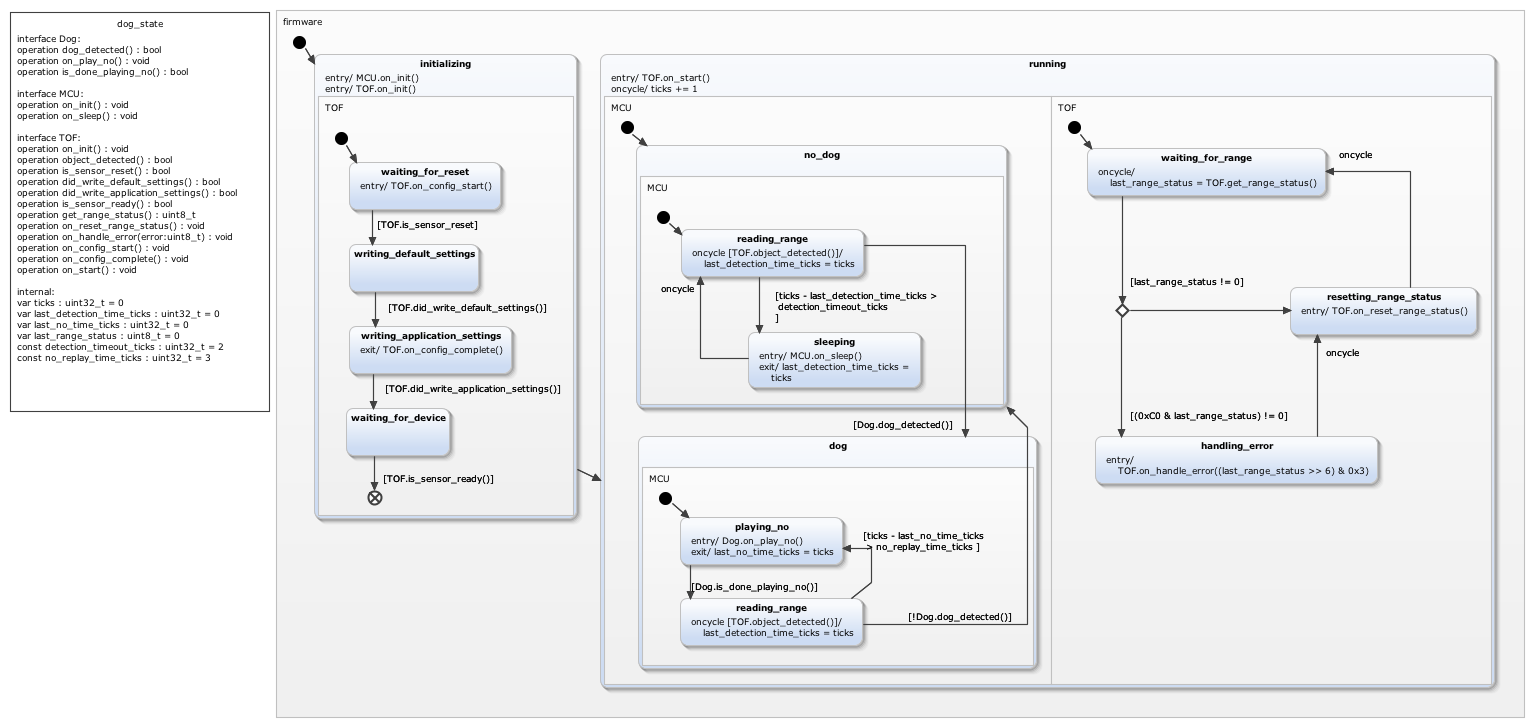
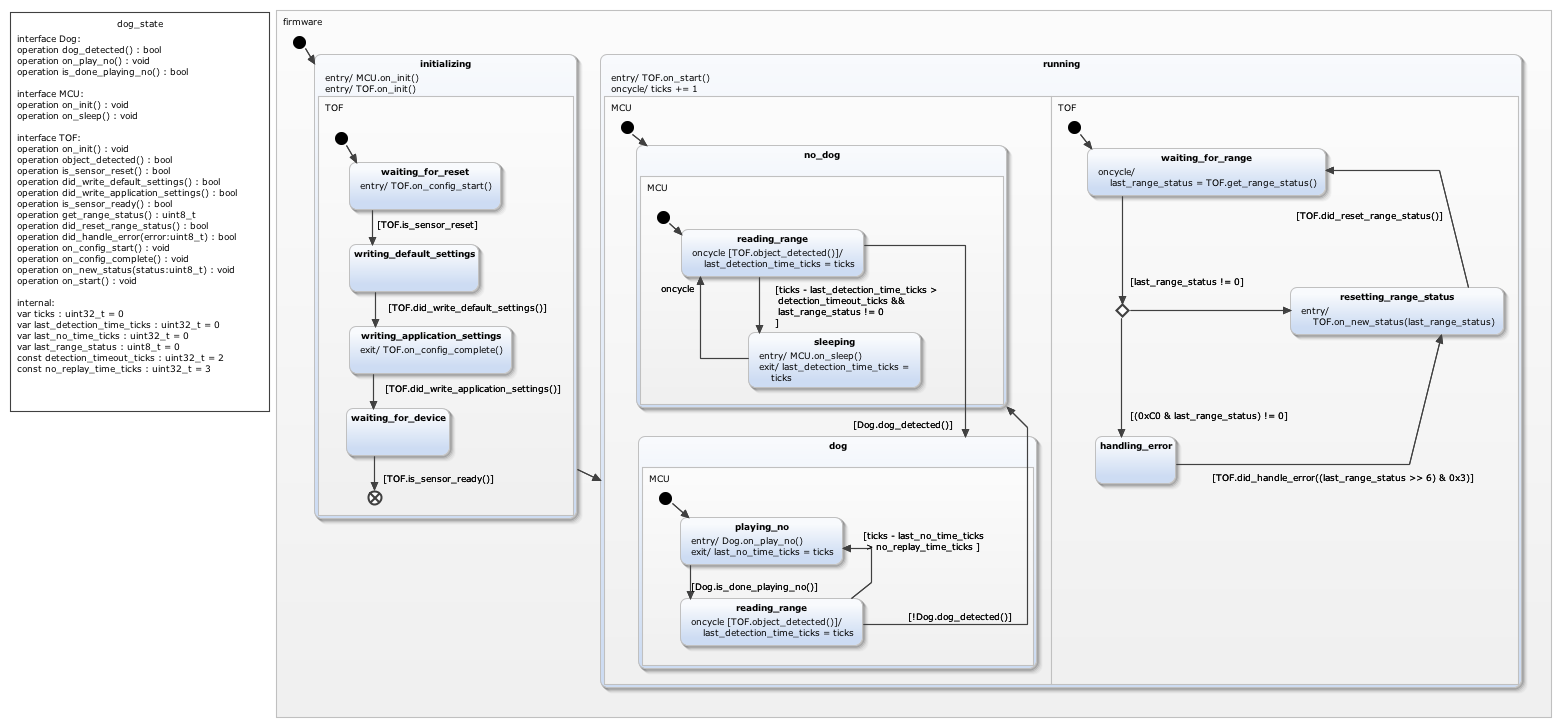
Adding range value to the state machine.

diff --git a/firmware_attiny/dog_state/src-gen/Dog_state.c b/firmware_attiny/dog_state/src-gen/Dog_state.c
@@ -50,7 +50,6 @@ static void dog_state_effect_firmware_running_TOF__choice_0_tr1(Dog_state* handl
 static void dog_state_enact_firmware_running(Dog_state* handle);
 static void dog_state_enact_firmware_running_MCU_no_dog_MCU_sleeping(Dog_state* handle);
 static void dog_state_enact_firmware_running_MCU_dog_MCU_playing_no(Dog_state* handle);
-static void dog_state_enact_firmware_running_TOF_handling_error(Dog_state* handle);
 static void dog_state_enact_firmware_running_TOF_resetting_range_status(Dog_state* handle);
 static void dog_state_enact_firmware_initializing(Dog_state* handle);
 static void dog_state_enact_firmware_initializing_TOF_waiting_for_reset(Dog_state* handle);
@@ -357,7 +356,7 @@ static sc_boolean dog_state_check_firmware_running_MCU_no_dog_MCU_sleeping_tr0_t
 
 static sc_boolean dog_state_check_firmware_running_MCU_no_dog_MCU_reading_range_tr0_tr0(const Dog_state* handle)
 {
-	return (handle->internal.ticks - handle->internal.last_detection_time_ticks > DOG_STATE_DOG_STATEINTERNAL_DETECTION_TIMEOUT_TICKS) ? bool_true : bool_false;
+	return (handle->internal.ticks - handle->internal.last_detection_time_ticks > DOG_STATE_DOG_STATEINTERNAL_DETECTION_TIMEOUT_TICKS && handle->internal.last_range_status != 0) ? bool_true : bool_false;
 }
 
 static sc_boolean dog_state_check_firmware_running_MCU_no_dog_MCU_reading_range_tr1_tr1(const Dog_state* handle)
@@ -392,7 +391,7 @@ static sc_boolean dog_state_check_firmware_running_MCU_dog_MCU_reading_range_lr0
 
 static sc_boolean dog_state_check_firmware_running_TOF_handling_error_tr0_tr0(const Dog_state* handle)
 {
-	return bool_true;
+	return dog_stateIfaceTOF_did_handle_error(handle, (handle->internal.last_range_status >> 6) & 0x3);
 }
 
 static sc_boolean dog_state_check_firmware_running_TOF_waiting_for_range_tr0_tr0(const Dog_state* handle)
@@ -407,7 +406,7 @@ static sc_boolean dog_state_check_firmware_running_TOF_waiting_for_range_lr0_lr0
 
 static sc_boolean dog_state_check_firmware_running_TOF_resetting_range_status_tr0_tr0(const Dog_state* handle)
 {
-	return bool_true;
+	return dog_stateIfaceTOF_did_reset_range_status(handle);
 }
 
 static sc_boolean dog_state_check_firmware_initializing_TOF_waiting_for_reset_tr0_tr0(const Dog_state* handle)
@@ -575,18 +574,11 @@ static void dog_state_enact_firmware_running_MCU_dog_MCU_playing_no(Dog_state* h
 	dog_stateIfaceDog_on_play_no(handle);
 }
 
-/* Entry action for state 'handling_error'. */
-static void dog_state_enact_firmware_running_TOF_handling_error(Dog_state* handle)
-{
-	/* Entry action for state 'handling_error'. */
-	dog_stateIfaceTOF_on_handle_error(handle, (handle->internal.last_range_status >> 6) & 0x3);
-}
-
 /* Entry action for state 'resetting_range_status'. */
 static void dog_state_enact_firmware_running_TOF_resetting_range_status(Dog_state* handle)
 {
 	/* Entry action for state 'resetting_range_status'. */
-	dog_stateIfaceTOF_on_reset_range_status(handle);
+	dog_stateIfaceTOF_on_new_status(handle, handle->internal.last_range_status);
 }
 
 /* Entry action for state 'initializing'. */
@@ -686,7 +678,6 @@ static void dog_state_enseq_firmware_running_MCU_dog_MCU_reading_range_default(D
 static void dog_state_enseq_firmware_running_TOF_handling_error_default(Dog_state* handle)
 {
 	/* 'default' enter sequence for state handling_error */
-	dog_state_enact_firmware_running_TOF_handling_error(handle);
 	handle->stateConfVector[1] = Dog_state_firmware_running_TOF_handling_error;
 	handle->stateConfVectorPosition = 1;
 }
@@ -1173,7 +1164,10 @@ static void dog_state_react_firmware_running_MCU_dog_MCU_reading_range(Dog_state
 static void dog_state_react_firmware_running_TOF_handling_error(Dog_state* handle)
 {
 	/* The reactions of state handling_error. */
-	dog_state_effect_firmware_running_TOF_handling_error_tr0(handle);
+	if (dog_state_check_firmware_running_TOF_handling_error_tr0_tr0(handle) == bool_true)
+	{ 
+		dog_state_effect_firmware_running_TOF_handling_error_tr0(handle);
+	} 
 }
 
 /* The reactions of state waiting_for_range. */
@@ -1193,7 +1187,10 @@ static void dog_state_react_firmware_running_TOF_waiting_for_range(Dog_state* ha
 static void dog_state_react_firmware_running_TOF_resetting_range_status(Dog_state* handle)
 {
 	/* The reactions of state resetting_range_status. */
-	dog_state_effect_firmware_running_TOF_resetting_range_status_tr0(handle);
+	if (dog_state_check_firmware_running_TOF_resetting_range_status_tr0_tr0(handle) == bool_true)
+	{ 
+		dog_state_effect_firmware_running_TOF_resetting_range_status_tr0(handle);
+	} 
 }
 
 /* The reactions of state waiting_for_reset. */

diff --git a/firmware_attiny/dog_state/src-gen/Dog_stateRequired.h b/firmware_attiny/dog_state/src-gen/Dog_stateRequired.h
@@ -25,10 +25,11 @@ This state machine makes use of operations declared in the state machines interf
 	- dog_stateIfaceTOF_did_write_application_settings
 	- dog_stateIfaceTOF_is_sensor_ready
 	- dog_stateIfaceTOF_get_range_status
-	- dog_stateIfaceTOF_on_reset_range_status
-	- dog_stateIfaceTOF_on_handle_error
+	- dog_stateIfaceTOF_did_reset_range_status
+	- dog_stateIfaceTOF_did_handle_error
 	- dog_stateIfaceTOF_on_config_start
 	- dog_stateIfaceTOF_on_config_complete
+	- dog_stateIfaceTOF_on_new_status
 	- dog_stateIfaceTOF_on_start
 are defined.
 
@@ -52,10 +53,11 @@ extern bool dog_stateIfaceTOF_did_write_default_settings(const Dog_state* handle
 extern bool dog_stateIfaceTOF_did_write_application_settings(const Dog_state* handle);
 extern bool dog_stateIfaceTOF_is_sensor_ready(const Dog_state* handle);
 extern uint8_t dog_stateIfaceTOF_get_range_status(const Dog_state* handle);
-extern void dog_stateIfaceTOF_on_reset_range_status(const Dog_state* handle);
-extern void dog_stateIfaceTOF_on_handle_error(const Dog_state* handle, const uint8_t error);
+extern bool dog_stateIfaceTOF_did_reset_range_status(const Dog_state* handle);
+extern bool dog_stateIfaceTOF_did_handle_error(const Dog_state* handle, const uint8_t error);
 extern void dog_stateIfaceTOF_on_config_start(const Dog_state* handle);
 extern void dog_stateIfaceTOF_on_config_complete(const Dog_state* handle);
+extern void dog_stateIfaceTOF_on_new_status(const Dog_state* handle, const uint8_t status);
 extern void dog_stateIfaceTOF_on_start(const Dog_state* handle);
 
 

diff --git a/firmware_attiny/ProximitySensorVL6180.c b/firmware_attiny/ProximitySensorVL6180.c
@@ -240,12 +240,24 @@ uint8_t dog_stateIfaceTOF_get_range_status(const Dog_state *handle)
     return VL6180x_getRegister(get_instance(), VL6180X_RESULT_INTERRUPT_STATUS_GPIO);
 }
 
-void dog_stateIfaceTOF_on_reset_range_status(const Dog_state *handle)
+void dog_stateIfaceTOF_on_new_status(const Dog_state *handle, const uint8_t status)
 {
-    VL6180x_setRegister(get_instance(), VL6180X_SYSTEM_INTERRUPT_CLEAR, 0x7);
+    if ((0xC0 & status) == 0x00 && (0x7 & status) != 0x00) {
+        // If the new status doesn't include an error and does include range
+        // then get the range and store it.
+        ProximitySensorVL6180 *sensor = get_instance();
+        sensor->_last_range           = VL6180x_getRegister(sensor, VL6180X_RESULT_RANGE_VAL);
+    }
 }
 
-void dog_stateIfaceTOF_on_handle_error(const Dog_state *handle, const uint8_t error)
+bool dog_stateIfaceTOF_did_reset_range_status(const Dog_state *handle)
+{
+    VL6180x_setRegister(get_instance(), VL6180X_SYSTEM_INTERRUPT_CLEAR, 0x7);
+    return true;
+}
+
+bool dog_stateIfaceTOF_did_handle_error(const Dog_state *handle, const uint8_t error)
 {
     // TODO: determine if we need to reset the MCU for some or all errors.
+    return true;
 }
